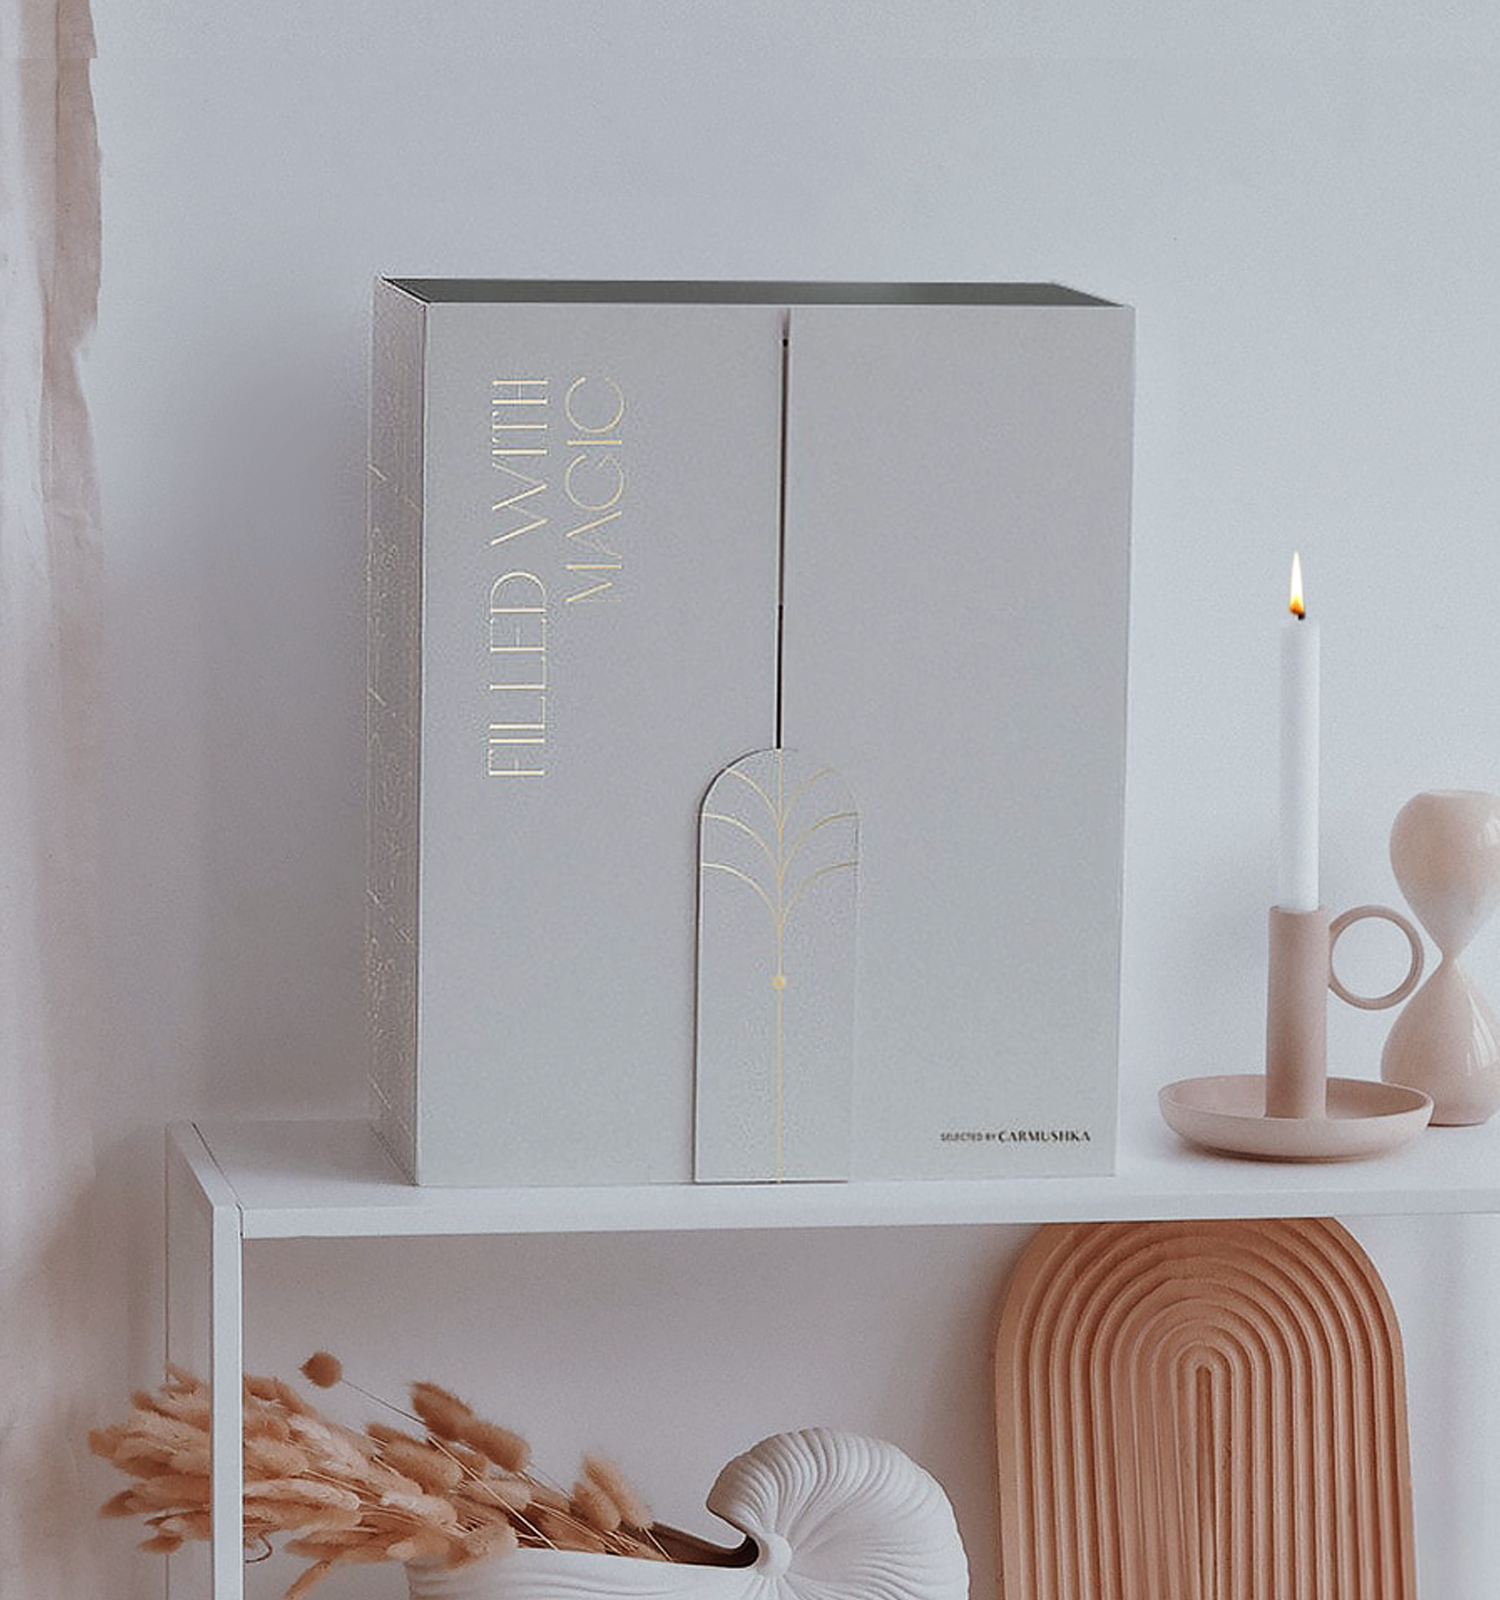
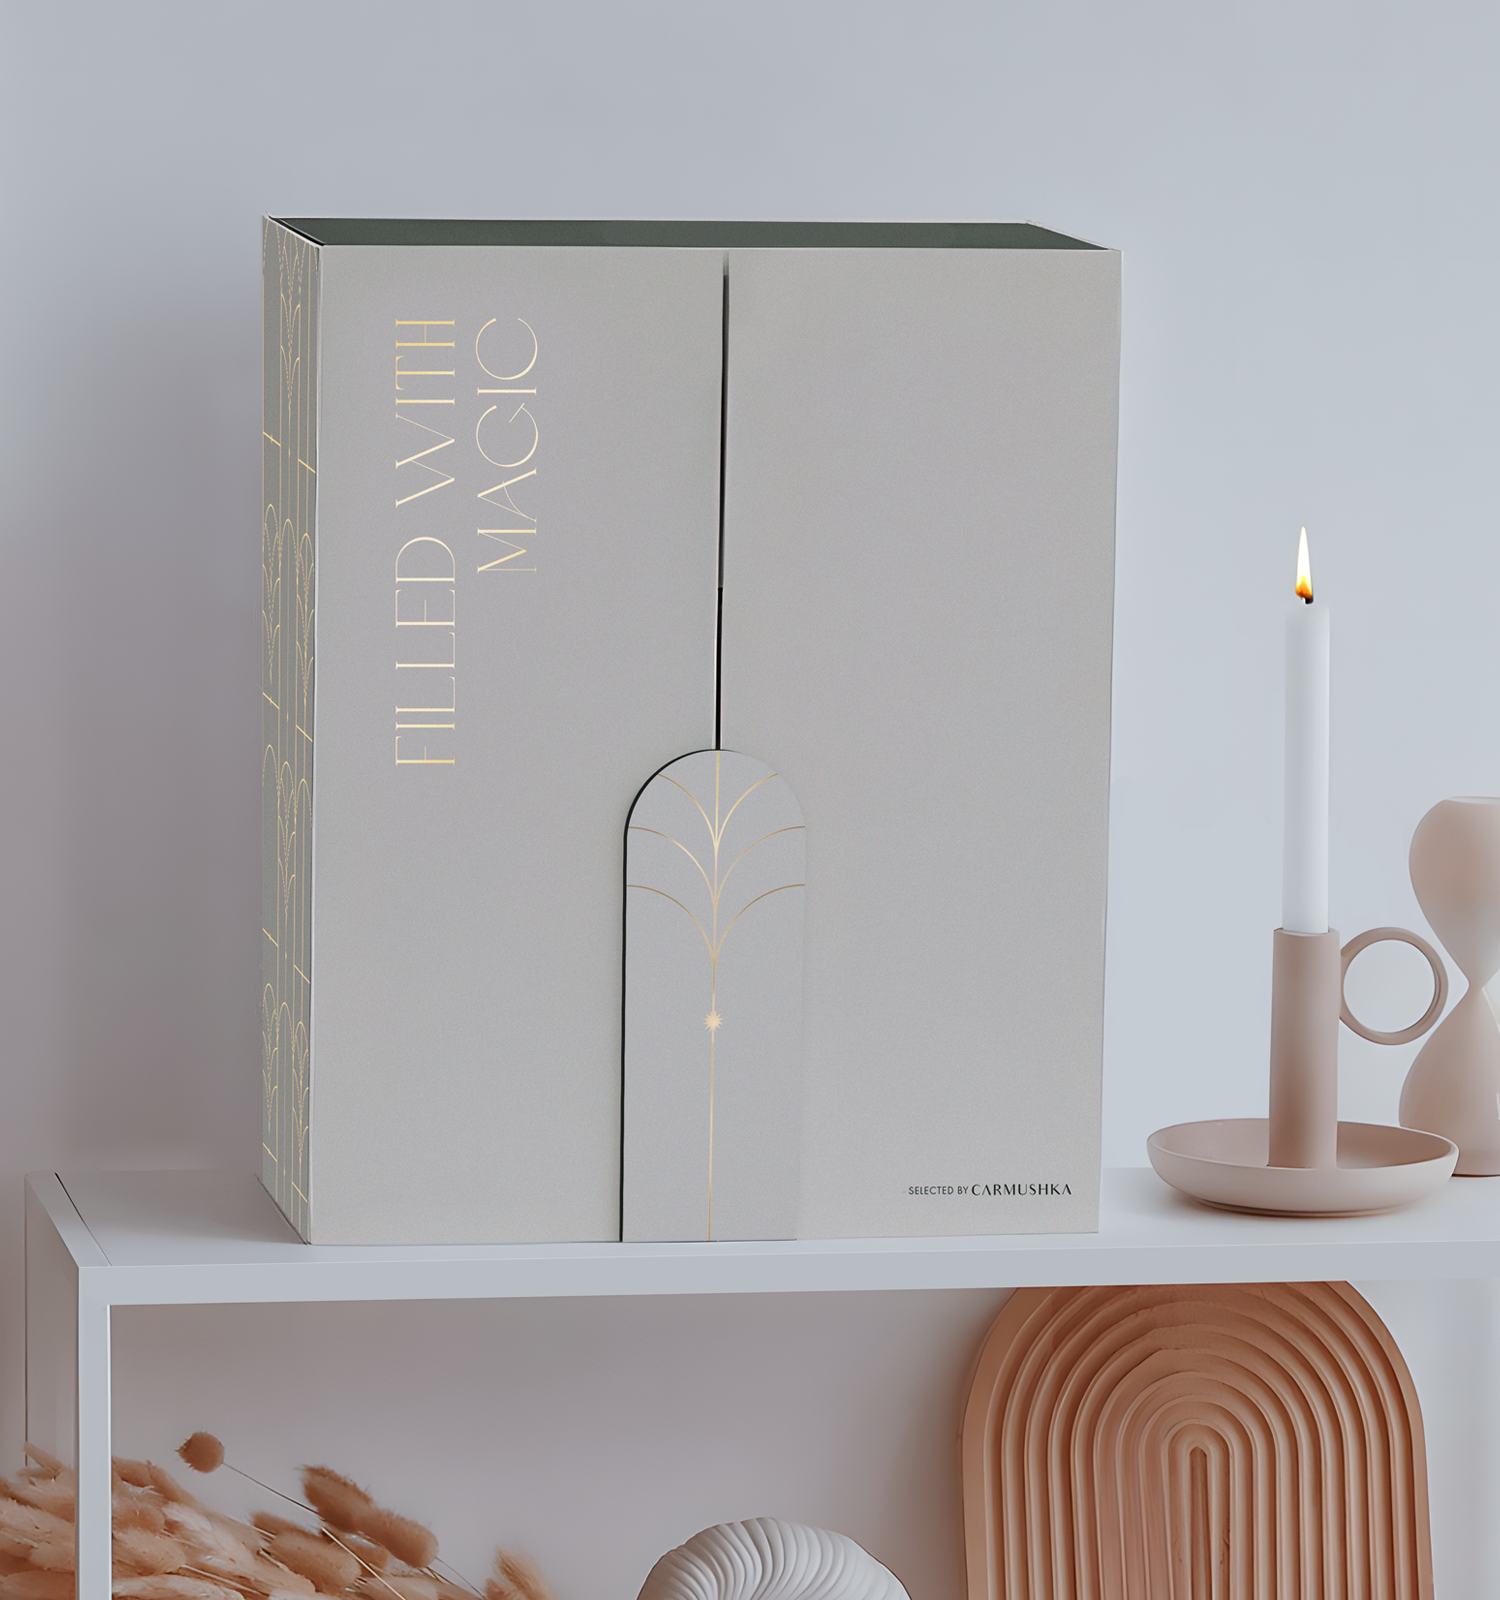
add adventskalender page

diff --git a/css/style.css b/css/style.css
@@ -1149,7 +1149,7 @@ footer {
   display: flex;
   flex-direction: column;
   align-items: end;
-  padding-top: 3vw;
+  padding-top: 1vw;
   opacity: 0;
   position: relative;
   z-index: 10000;
@@ -1361,7 +1361,6 @@ figure.not-in-view {
     width: 100%;
     padding-top: 100%;
     margin-bottom: 7vw;
-    background-image: url("../img/magazin-mockup-titel_01.png");
   }
 
   .image-container-two {
@@ -1438,5 +1437,156 @@ figure.not-in-view {
   figure.not-in-view {
     opacity: 0;
     /* transform: translate(0, -4vw); */
+  }
+}
+
+/* ____SUPAGE ADVENT------ */
+
+.image-advent-container-one {
+  width: 55%;
+  height: 0;
+  padding-top: 52%;
+  /* background-image: url("../img/adventskalender_mockup_vorne.png"); */
+  background-size: cover;
+  background-position: center;
+  margin-bottom: 2vw;
+}
+
+.image-advent-container-two {
+  width: 55%;
+  height: 0;
+  padding-top: 52%;
+  background-image: url("../img/adventskalender_mockup_offen.png");
+  background-size: cover;
+  background-position: center;
+  margin-bottom: 2vw;
+}
+
+.image-advent-container-three {
+  width: 55%;
+  height: 0;
+  padding-top: 52%;
+  background-image: url("../img/adventskalender_postkarten.png");
+  background-size: cover;
+  background-position: center;
+  margin-bottom: 2vw;
+}
+.image-advent-container-four {
+  width: 55%; /* Vollständige Breite des Elternelements */
+  height: 0; /* Höhe auf 0 setzen, um das Seitenverhältnis des Hintergrundbildes zu kontrollieren */
+  padding-top: 52%; /* Das Seitenverhältnis des Hintergrundbildes festlegen (1:2, da die Höhe die Hälfte der Breite ist) */
+  background-image: url("../img/tagebuch_01.png"); /* Pfad zum Bild festlegen */
+  background-size: cover; /* Das Bild so skalieren, dass es den Container vollständig ausfüllt */
+  background-position: center; /* Das Bild zentrieren */
+  margin-bottom: 2vw;
+}
+.image-advent-container-five {
+  width: 55%; /* Vollständige Breite des Elternelements */
+  height: 0; /* Höhe auf 0 setzen, um das Seitenverhältnis des Hintergrundbildes zu kontrollieren */
+  padding-top: 52%; /* Das Seitenverhältnis des Hintergrundbildes festlegen (1:2, da die Höhe die Hälfte der Breite ist) */
+  background-image: url("../img/tagebuch_02.png"); /* Pfad zum Bild festlegen */
+  background-size: cover; /* Das Bild so skalieren, dass es den Container vollständig ausfüllt */
+  background-position: center; /* Das Bild zentrieren */
+  margin-bottom: 2vw;
+}
+.image-advent-container-six {
+  width: 55%; /* Vollständige Breite des Elternelements */
+  height: 0; /* Höhe auf 0 setzen, um das Seitenverhältnis des Hintergrundbildes zu kontrollieren */
+  padding-top: 52%; /* Das Seitenverhältnis des Hintergrundbildes festlegen (1:2, da die Höhe die Hälfte der Breite ist) */
+  background-image: url("../img/tagebuch_03.png"); /* Pfad zum Bild festlegen */
+  background-size: cover; /* Das Bild so skalieren, dass es den Container vollständig ausfüllt */
+  background-position: center; /* Das Bild zentrieren */
+  margin-bottom: 2vw;
+}
+.image-advent-container-seven {
+  width: 55%; /* Vollständige Breite des Elternelements */
+  height: 0; /* Höhe auf 0 setzen, um das Seitenverhältnis des Hintergrundbildes zu kontrollieren */
+  padding-top: 52%; /* Das Seitenverhältnis des Hintergrundbildes festlegen (1:2, da die Höhe die Hälfte der Breite ist) */
+  background-image: url("../img/kopmplimentkarten_01.png"); /* Pfad zum Bild festlegen */
+  background-size: cover; /* Das Bild so skalieren, dass es den Container vollständig ausfüllt */
+  background-position: center; /* Das Bild zentrieren */
+  margin-bottom: 2vw;
+}
+.image-advent-container-eight {
+  width: 55%; /* Vollständige Breite des Elternelements */
+  height: 0; /* Höhe auf 0 setzen, um das Seitenverhältnis des Hintergrundbildes zu kontrollieren */
+  padding-top: 52%; /* Das Seitenverhältnis des Hintergrundbildes festlegen (1:2, da die Höhe die Hälfte der Breite ist) */
+  background-image: url("../img/postkartenkalender.png"); /* Pfad zum Bild festlegen */
+  background-size: cover; /* Das Bild so skalieren, dass es den Container vollständig ausfüllt */
+  background-position: center; /* Das Bild zentrieren */
+  margin-bottom: 2vw;
+}
+.image-advent-container-nine {
+  width: 55%; /* Vollständige Breite des Elternelements */
+  height: 0; /* Höhe auf 0 setzen, um das Seitenverhältnis des Hintergrundbildes zu kontrollieren */
+  padding-top: 52%; /* Das Seitenverhältnis des Hintergrundbildes festlegen (1:2, da die Höhe die Hälfte der Breite ist) */
+  background-image: url("../img/postkartenkalender_02.png"); /* Pfad zum Bild festlegen */
+  background-size: cover; /* Das Bild so skalieren, dass es den Container vollständig ausfüllt */
+  background-position: center; /* Das Bild zentrieren */
+  margin-bottom: 2vw;
+}
+.image-advent-container-ten {
+  width: 55%; /* Vollständige Breite des Elternelements */
+  height: 0; /* Höhe auf 0 setzen, um das Seitenverhältnis des Hintergrundbildes zu kontrollieren */
+  padding-top: 52%; /* Das Seitenverhältnis des Hintergrundbildes festlegen (1:2, da die Höhe die Hälfte der Breite ist) */
+  background-image: url("../img/adventskalender_02.png"); /* Pfad zum Bild festlegen */
+  background-size: cover; /* Das Bild so skalieren, dass es den Container vollständig ausfüllt */
+  background-position: center; /* Das Bild zentrieren */
+  margin-bottom: 2vw;
+}
+
+/* Mobile S Adventskalender */
+
+@media (max-width: 640px) {
+  .image-advent-container-one {
+    width: 100%;
+    padding-top: 100%;
+    margin-bottom: 7vw;
+  }
+
+  .image-advent-container-two {
+    width: 100%;
+    padding-top: 100%;
+    margin-bottom: 7vw;
+  }
+  .image-advent-container-three {
+    width: 100%;
+    padding-top: 100%;
+    margin-bottom: 7vw;
+  }
+  .image-advent-container-four {
+    width: 100%;
+    padding-top: 100%;
+    margin-bottom: 7vw;
+  }
+  .image-advent-container-five {
+    width: 100%;
+    padding-top: 100%;
+    margin-bottom: 7vw;
+  }
+  .image-advent-container-six {
+    width: 100%;
+    padding-top: 100%;
+    margin-bottom: 7vw;
+  }
+  .image-advent-container-seven {
+    width: 100%;
+    padding-top: 100%;
+    margin-bottom: 7vw;
+  }
+  .image-advent-container-eight {
+    width: 100%;
+    padding-top: 100%;
+    margin-bottom: 7vw;
+  }
+  .image-advent-container-nine {
+    width: 100%;
+    padding-top: 100%;
+    margin-bottom: 7vw;
+  }
+  .image-advent-container-ten {
+    width: 100%;
+    padding-top: 100%;
+    margin-bottom: 7vw;
   }
 }

diff --git a/adventskalender.html b/adventskalender.html
@@ -3,9 +3,81 @@
   <head>
     <meta charset="UTF-8" />
     <meta name="viewport" content="width=device-width, initial-scale=1.0" />
-    <title>Document</title>
+    <title>Sofia Cavelius Portfolio</title>
+    <script src="js/index.js" defer></script>
+    <link rel="stylesheet" href="css/style.css" />
+    <!-- HTMLX -->
+    <script
+      src="https://unpkg.com/htmx.org@1.9.11"
+      integrity="sha384-0gxUXCCR8yv9FM2b+U3FDbsKthCI66oH5IA9fHppQq9DDMHuMauqq1ZHBpJxQ0J0"
+      crossorigin="anonymous"
+    ></script>
+    <!-- fonts -->
+    <link rel="stylesheet" href="https://use.typekit.net/fvi2yyp.css" />
+    <!-- <link rel="stylesheet" href="https://use.typekit.net/fvi2yyp.css"> -->
+    <!-- <link rel="stylesheet" href="https://use.typekit.net/hio3kaz.css" /> -->
+    <link rel="preconnect" href="https://fonts.googleapis.com" />
+    <link rel="preconnect" href="https://fonts.gstatic.com" crossorigin />
+    <link
+      href="https://fonts.googleapis.com/css2?family=Space+Grotesk:wght@300..700&display=swap"
+      rel="stylesheet"
+    />
   </head>
   <body>
-    unterseite adventskalender
+    <!-- <div class="off-screen-menu">
+      <ul class="menu-text">
+        <a class="menu-text-work" href="#work">work</a>
+        <a class="menu-text-about" href="#about">about</a>
+        <a class="menu-text-contact" href="#contact">contact</a>
+      </ul>
+    </div> -->
+    <!-- <nav>
+      <div class="ham-menu">
+        <span></span>
+        <span></span>
+        <span></span>
+      </div>
+    </nav> -->
+    <!-- header -->
+    <header></header>
+    <a href="index.html" id="subpage-overlay-font">
+      <div>sofia cavelius</div>
+      <div>portfolio</div>
+    </a>
+    <div class="blur"></div>
+    <main>
+      <div class="subpage-main">
+        <div class="subpage-title">
+          <div class="subpage-title-one">
+            <ul class="subpage-title-ul">
+              <li>Project: Adventskalender</li>
+              <li>Role: Designleitung</li>
+              <li>Client: Heinen Lovebrands</li>
+            </ul>
+            <div class="subpage-title-two">
+              <p class="subpage-title-long-text">
+                similique quibusdam, odit magni quia officiis iusto temporibus
+                unde, quas error deserunt velit soluta voluptatem distinctio
+                asperiores quaerat amet incidunt alias et. Odio, possimus!
+              </p>
+            </div>
+          </div>
+        </div>
+        <div class="subpage-images">
+          <figure class="image-advent-container-one"></figure>
+          <figure class="image-advent-container-two"></figure>
+          <figure class="image-advent-container-three"></figure>
+          <figure class="image-advent-container-four"></figure>
+          <figure class="image-advent-container-five"></figure>
+          <figure class="image-advent-container-six"></figure>
+          <figure class="image-advent-container-seven"></figure>
+          <figure class="image-advent-container-eight"></figure>
+          <figure class="image-advent-container-nine"></figure>
+          <figure class="image-advent-container-ten"></figure>
+          <!-- <figure class="image-advent-container-eleven"></figure>
+          <figure class="image-advent-container-twelve"></figure> -->
+        </div>
+      </div>
+    </main>
   </body>
 </html>

diff --git a/js/index.js b/js/index.js
@@ -143,7 +143,7 @@ tags.forEach((tag) => {
   observer.observe(tag);
 });
 
-// supage change the image
+// subpage change the image TWW
 
 const imageUrls = [
   "./img/magazin-mockup-titel_01.png",
@@ -185,3 +185,56 @@ changeBackgroundImage();
 
 // Den periodischen Bildwechsel fortsetzen
 setInterval(changeBackgroundImage, 2500);
+
+// subpage change the image Adventskalender
+
+const imageUrlsAdvent = [
+  "./img/adventskalender_01.png",
+  "./img/adventskalender_02.png",
+  "./img/adventskalender_03.png",
+  "./img/adventskalender_04.png",
+  "./img/adventskalender_05.png",
+  "./img/adventskalender_06.png",
+  "./img/adventskalender_07.png",
+  "./img/adventskalender_08.png",
+  "./img/adventskalender_09.png",
+  "./img/adventskalender_10.png",
+  "./img/adventskalender_11.png",
+  "./img/adventskalender_12.png",
+];
+
+let currentIndexAdvent = 0;
+
+function changeBackgroundImageAdvent() {
+  const currentImageUrlAdvent = imageUrlsAdvent[currentIndexAdvent];
+  const imageContainerAdvent = document.querySelector(
+    ".image-advent-container-one"
+  );
+  const nextImageAdvent = new Image();
+
+  nextImageAdvent.onload = function () {
+    // Das neue Bild einfügen
+    imageContainerAdvent.style.backgroundImage = `url('${currentImageUrlAdvent}')`;
+
+    // Die Transparenz des aktuellen Bildes reduzieren, um es auszublenden
+    imageContainerAdvent.style.transition = "opacity 1s ease-in-out";
+    imageContainerAdvent.style.opacity = "0";
+
+    // Sobald das aktuelle Bild ausgeblendet ist, die Transparenz zurücksetzen und das nächste Bild einblenden
+    setTimeout(() => {
+      imageContainerAdvent.style.opacity = "1";
+    }, 500);
+  };
+
+  // Lade das nächste Bild, um sicherzustellen, dass es im Cache ist, bevor es angezeigt wird
+  nextImageAdvent.src =
+    imageUrlsAdvent[(currentIndexAdvent + 1) % imageUrlsAdvent.length];
+
+  currentIndexAdvent = (currentIndexAdvent + 1) % imageUrlsAdvent.length;
+}
+
+// Initialen Bildwechsel aufrufen, um das erste Bild sofort anzuzeigen
+changeBackgroundImageAdvent();
+
+// Den periodischen Bildwechsel fortsetzen
+setInterval(changeBackgroundImageAdvent, 1000);
